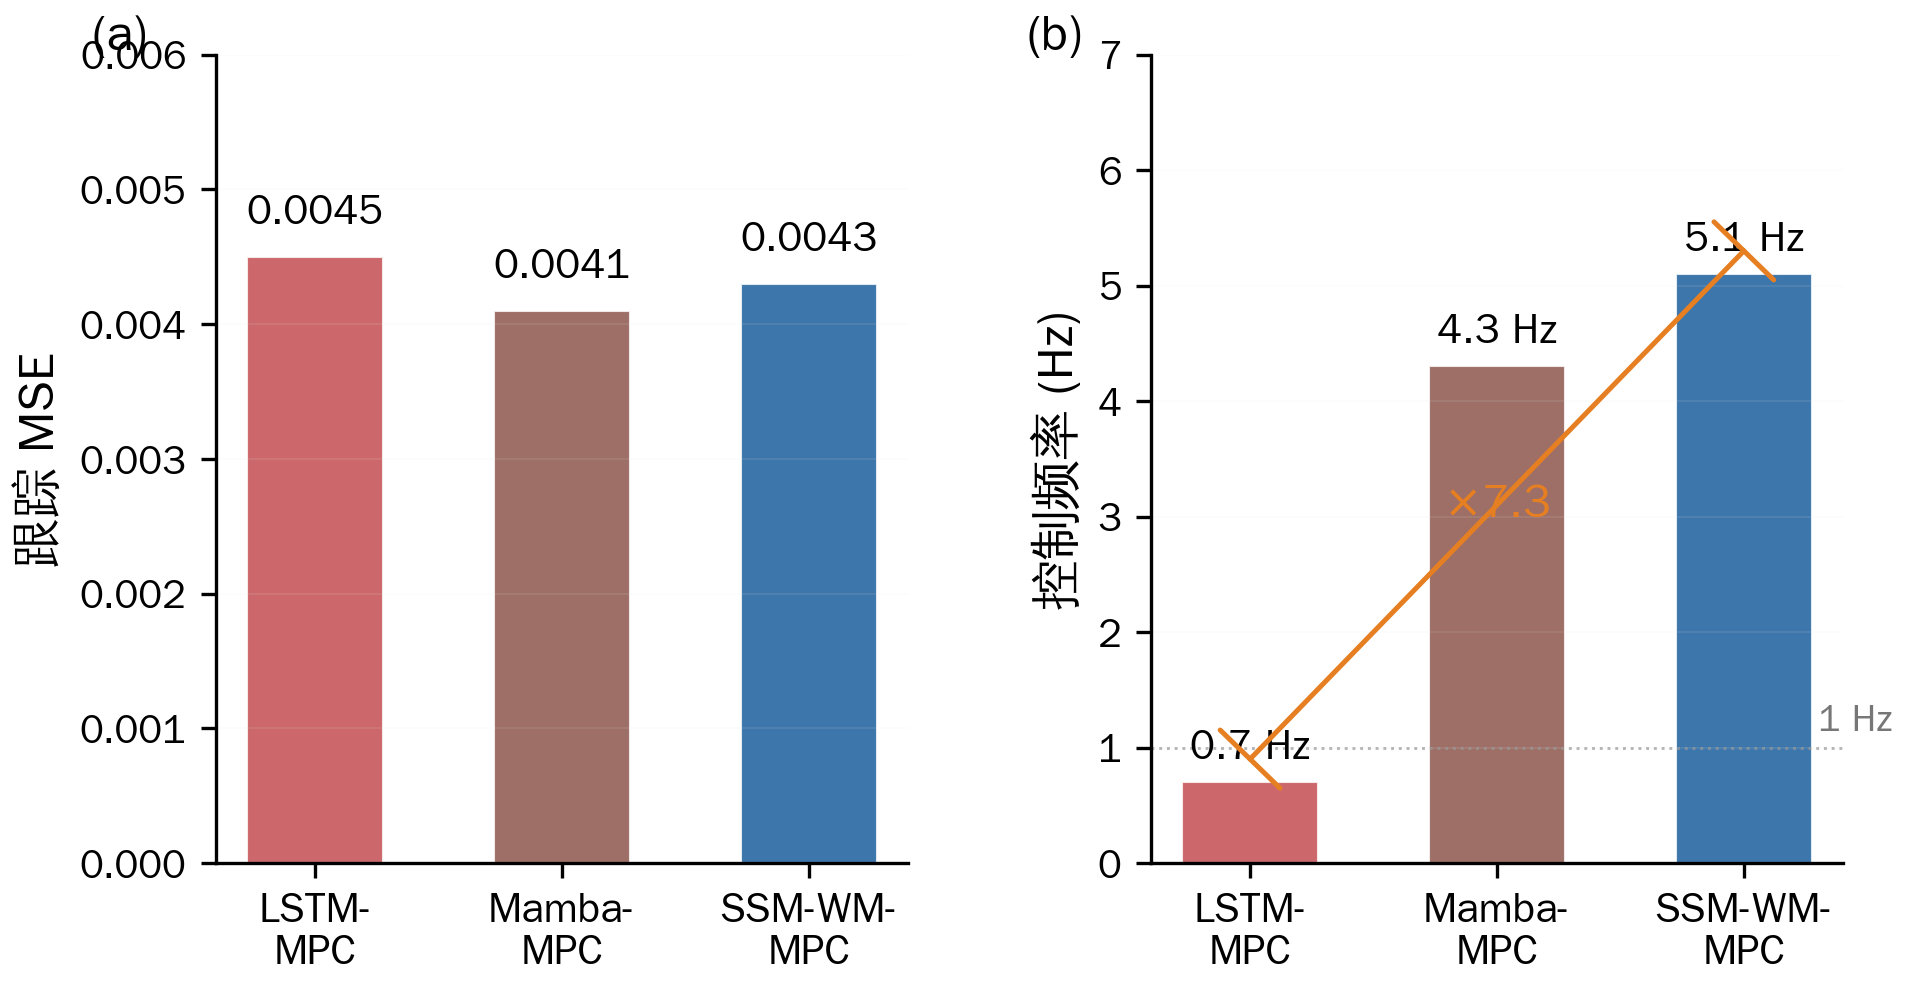
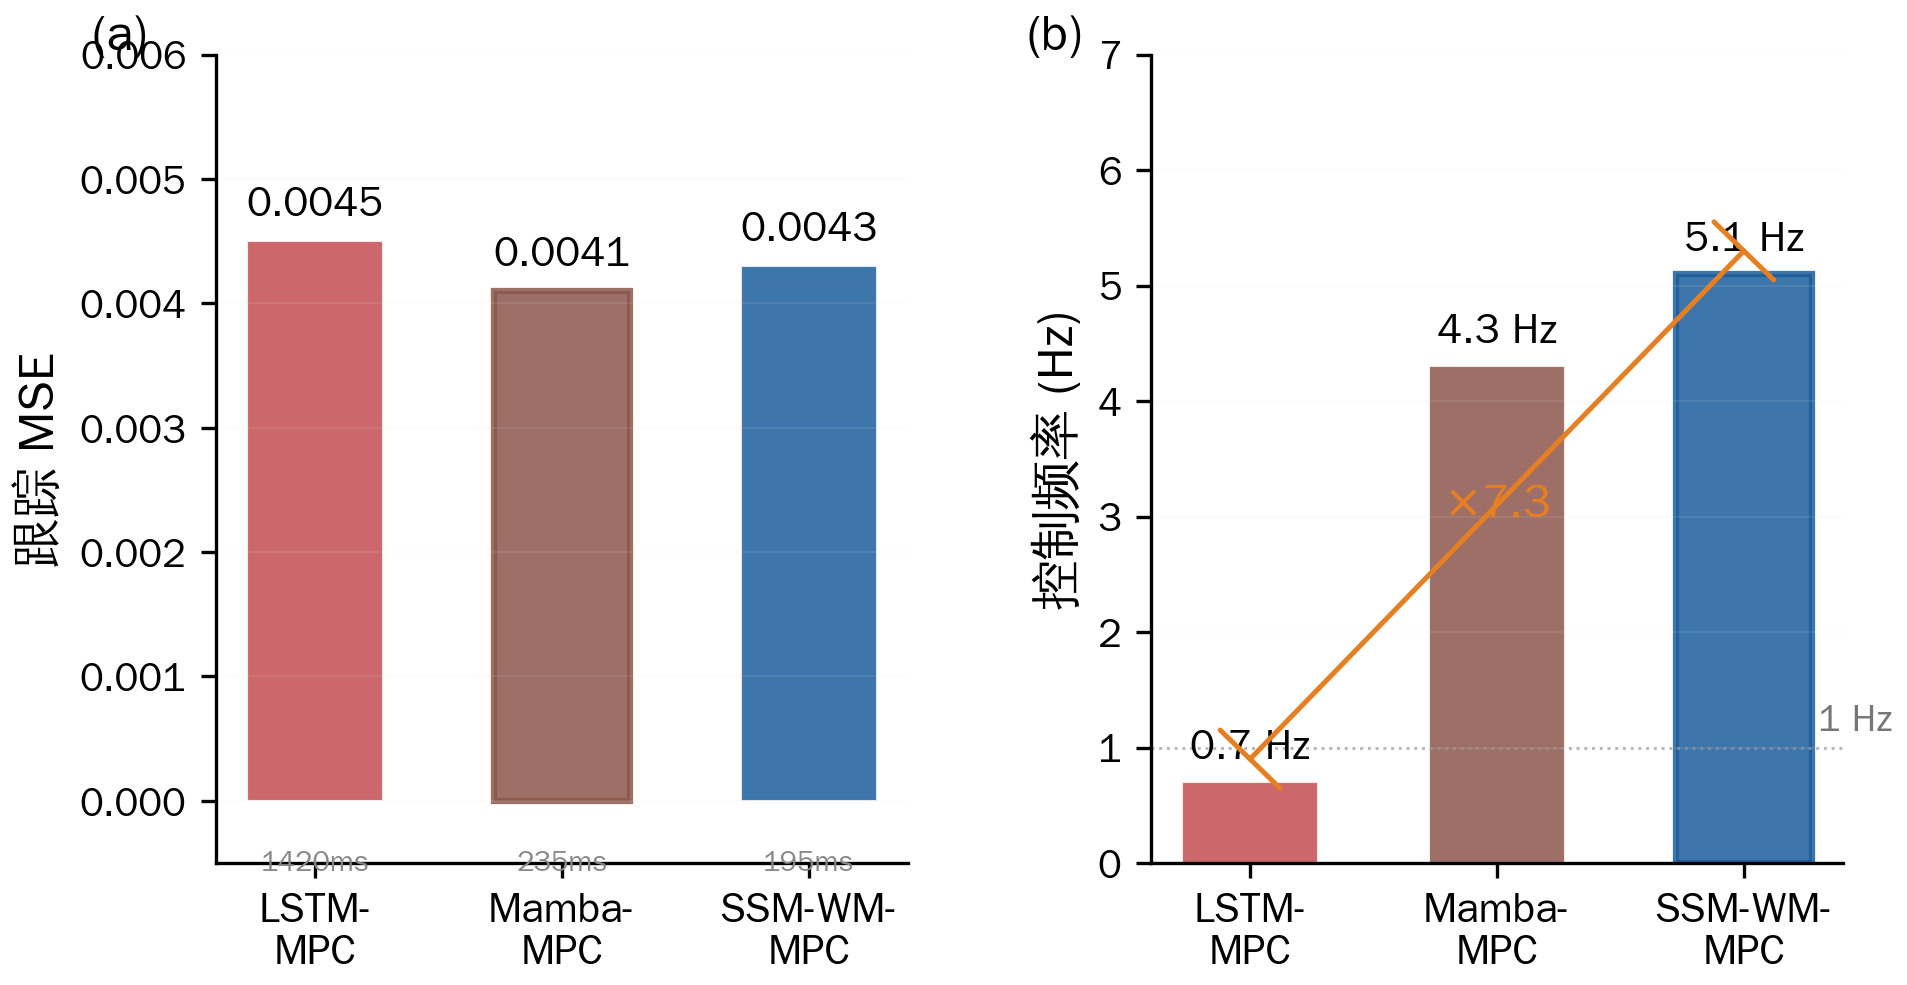
fix: 图5柱状图加边框高光+回路时间+最优标记

diff --git a/scripts/generate_figures_nature.py b/scripts/generate_figures_nature.py
@@ -241,39 +241,44 @@ def fig5():
     methods = ['LSTM-\nMPC', 'Mamba-\nMPC', 'SSM-WM-\nMPC']
     mse_vals = [0.0045, 0.0041, 0.0043]
     freq_vals = [0.7, 4.3, 5.1]
+    loop_ms = [1420, 235, 195]
     c = [C_LSTM, C_MAMBA, C_SSM]
     x = np.arange(len(methods))
 
-    # (a) MSE
+    # (a) MSE — bar + loop time
     bars1 = ax1.bar(x, mse_vals, color=c, alpha=0.85, edgecolor='white', linewidth=0.5, width=0.55)
-    for i, v in enumerate(mse_vals):
+    # Highlight best (lowest MSE = Mamba)
+    bars1[1].set_edgecolor(C_MAMBA)
+    bars1[1].set_linewidth(1.5)
+    for i, (v, lp) in enumerate(zip(mse_vals, loop_ms)):
         weight = 'bold' if i == 2 else 'normal'
-        ax1.text(i, v + 0.0002, f'{v:.4f}', ha='center', va='bottom', fontsize=10, fontweight=weight)
+        ax1.text(i, v + 0.00015, f'{v:.4f}', ha='center', va='bottom', fontsize=10, fontweight=weight)
+        ax1.text(i, -0.0004, f'{lp}ms', ha='center', va='top', fontsize=7, color='#888', style='italic')
     ax1.set_ylabel('跟踪 MSE', fontsize=12)
     ax1.set_xticks(x)
     ax1.set_xticklabels(methods, fontsize=10)
-    ax1.set_ylim(0, 0.006)
+    ax1.set_ylim(-0.0005, 0.006)
     ax1.grid(True, alpha=0.12, axis='y', color=C_GRID, linewidth=0.4)
     ax1.text(-0.18, 1.05, '(a)', transform=ax1.transAxes, fontsize=12, fontweight='bold', va='top')
 
-    # (b) Frequency
+    # (b) Frequency — bar + speedup bracket
     bars2 = ax2.bar(x, freq_vals, color=c, alpha=0.85, edgecolor='white', linewidth=0.5, width=0.55)
+    bars2[2].set_edgecolor(C_SSM)
+    bars2[2].set_linewidth(1.5)
     for i, v in enumerate(freq_vals):
         weight = 'bold' if i == 2 else 'normal'
         ax2.text(i, v + 0.15, f'{v:.1f} Hz', ha='center', va='bottom', fontsize=10, fontweight=weight)
     ax2.axhline(y=1, color='#999', linestyle=':', linewidth=0.7, alpha=0.7)
     ax2.text(2.3, 1.15, '1 Hz', fontsize=9, color='#777')
+    ax2.annotate('', xy=(2, 5.3), xytext=(0, 0.9),
+                arrowprops=dict(arrowstyle='|-|', color=C_ANNO, lw=1.2, shrinkA=0, shrinkB=0))
+    ax2.text(1.0, 3.0, '$\\times$7.3', fontsize=11, fontweight='bold', color=C_ANNO, ha='center')
     ax2.set_ylabel('控制频率 (Hz)', fontsize=12)
     ax2.set_xticks(x)
     ax2.set_xticklabels(methods, fontsize=10)
     ax2.set_ylim(0, 7)
     ax2.grid(True, alpha=0.12, axis='y', color=C_GRID, linewidth=0.4)
     ax2.text(-0.18, 1.05, '(b)', transform=ax2.transAxes, fontsize=12, fontweight='bold', va='top')
-
-    # Speedup bracket
-    ax2.annotate('', xy=(2, 5.3), xytext=(0, 0.9),
-                arrowprops=dict(arrowstyle='|-|', color=C_ANNO, lw=1.2, shrinkA=0, shrinkB=0))
-    ax2.text(1.0, 3.0, '$\\times$7.3', fontsize=11, fontweight='bold', color=C_ANNO, ha='center')
 
     fig.tight_layout()
     save(fig, 'mpc_comparison')